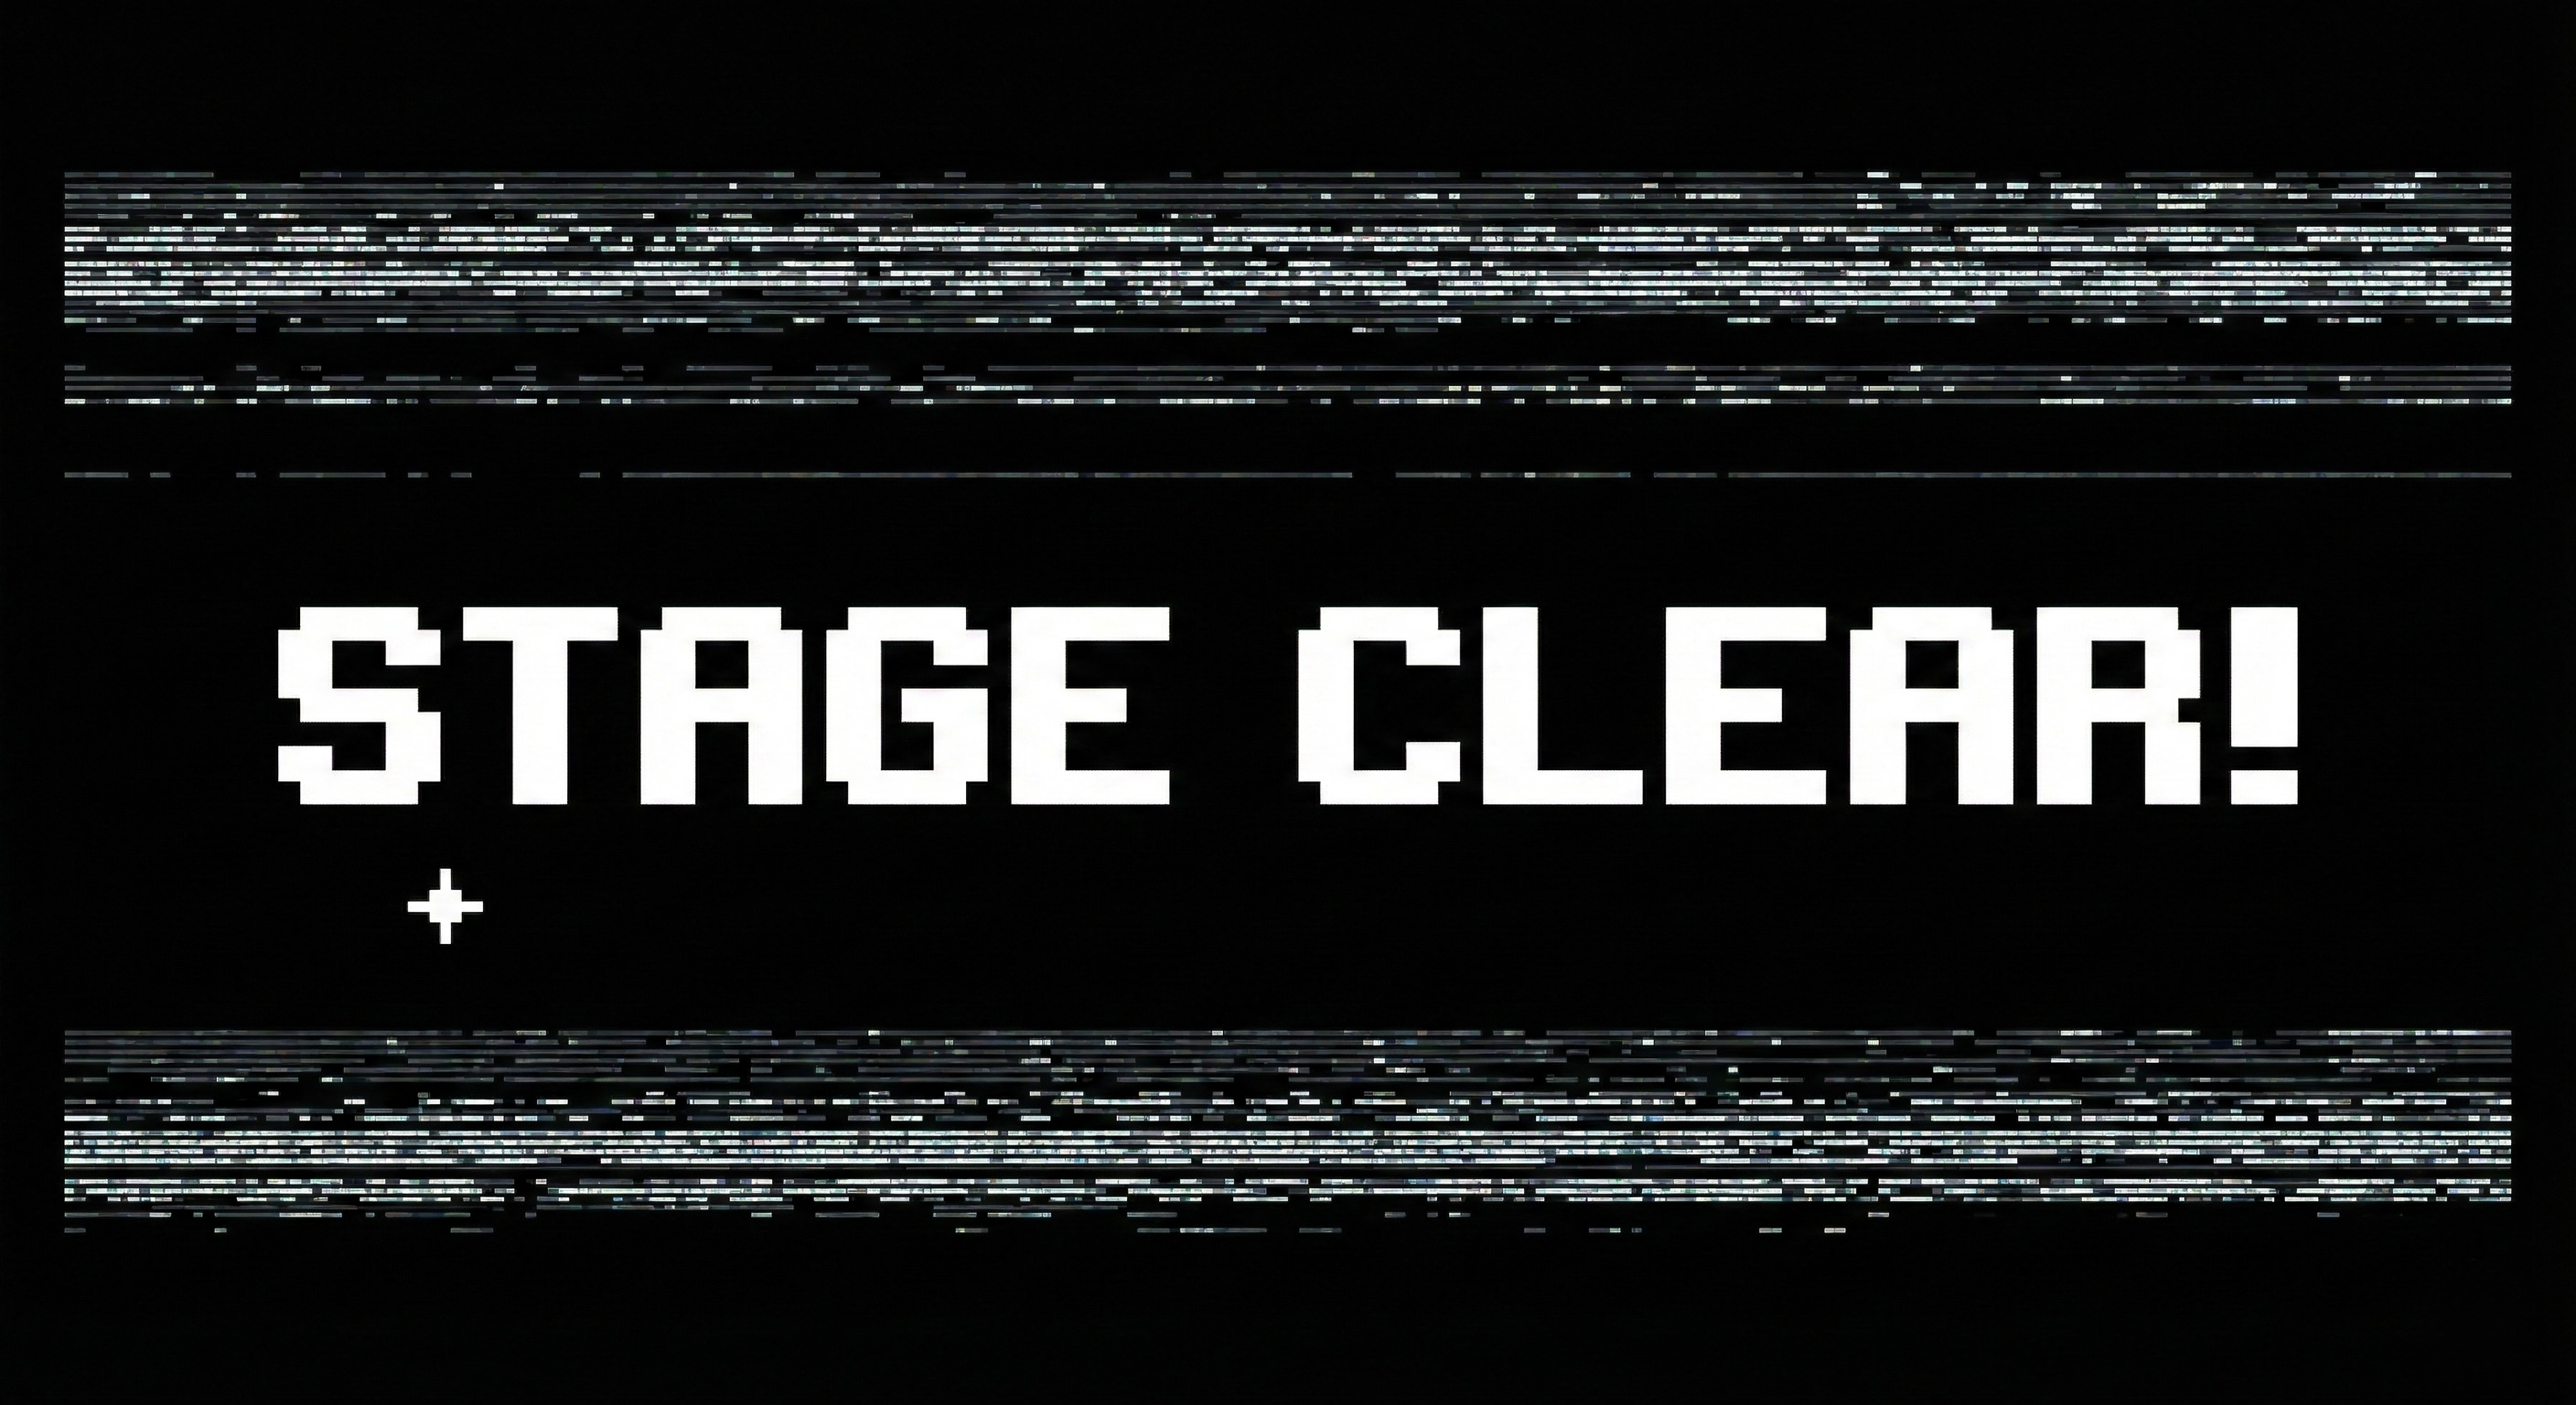
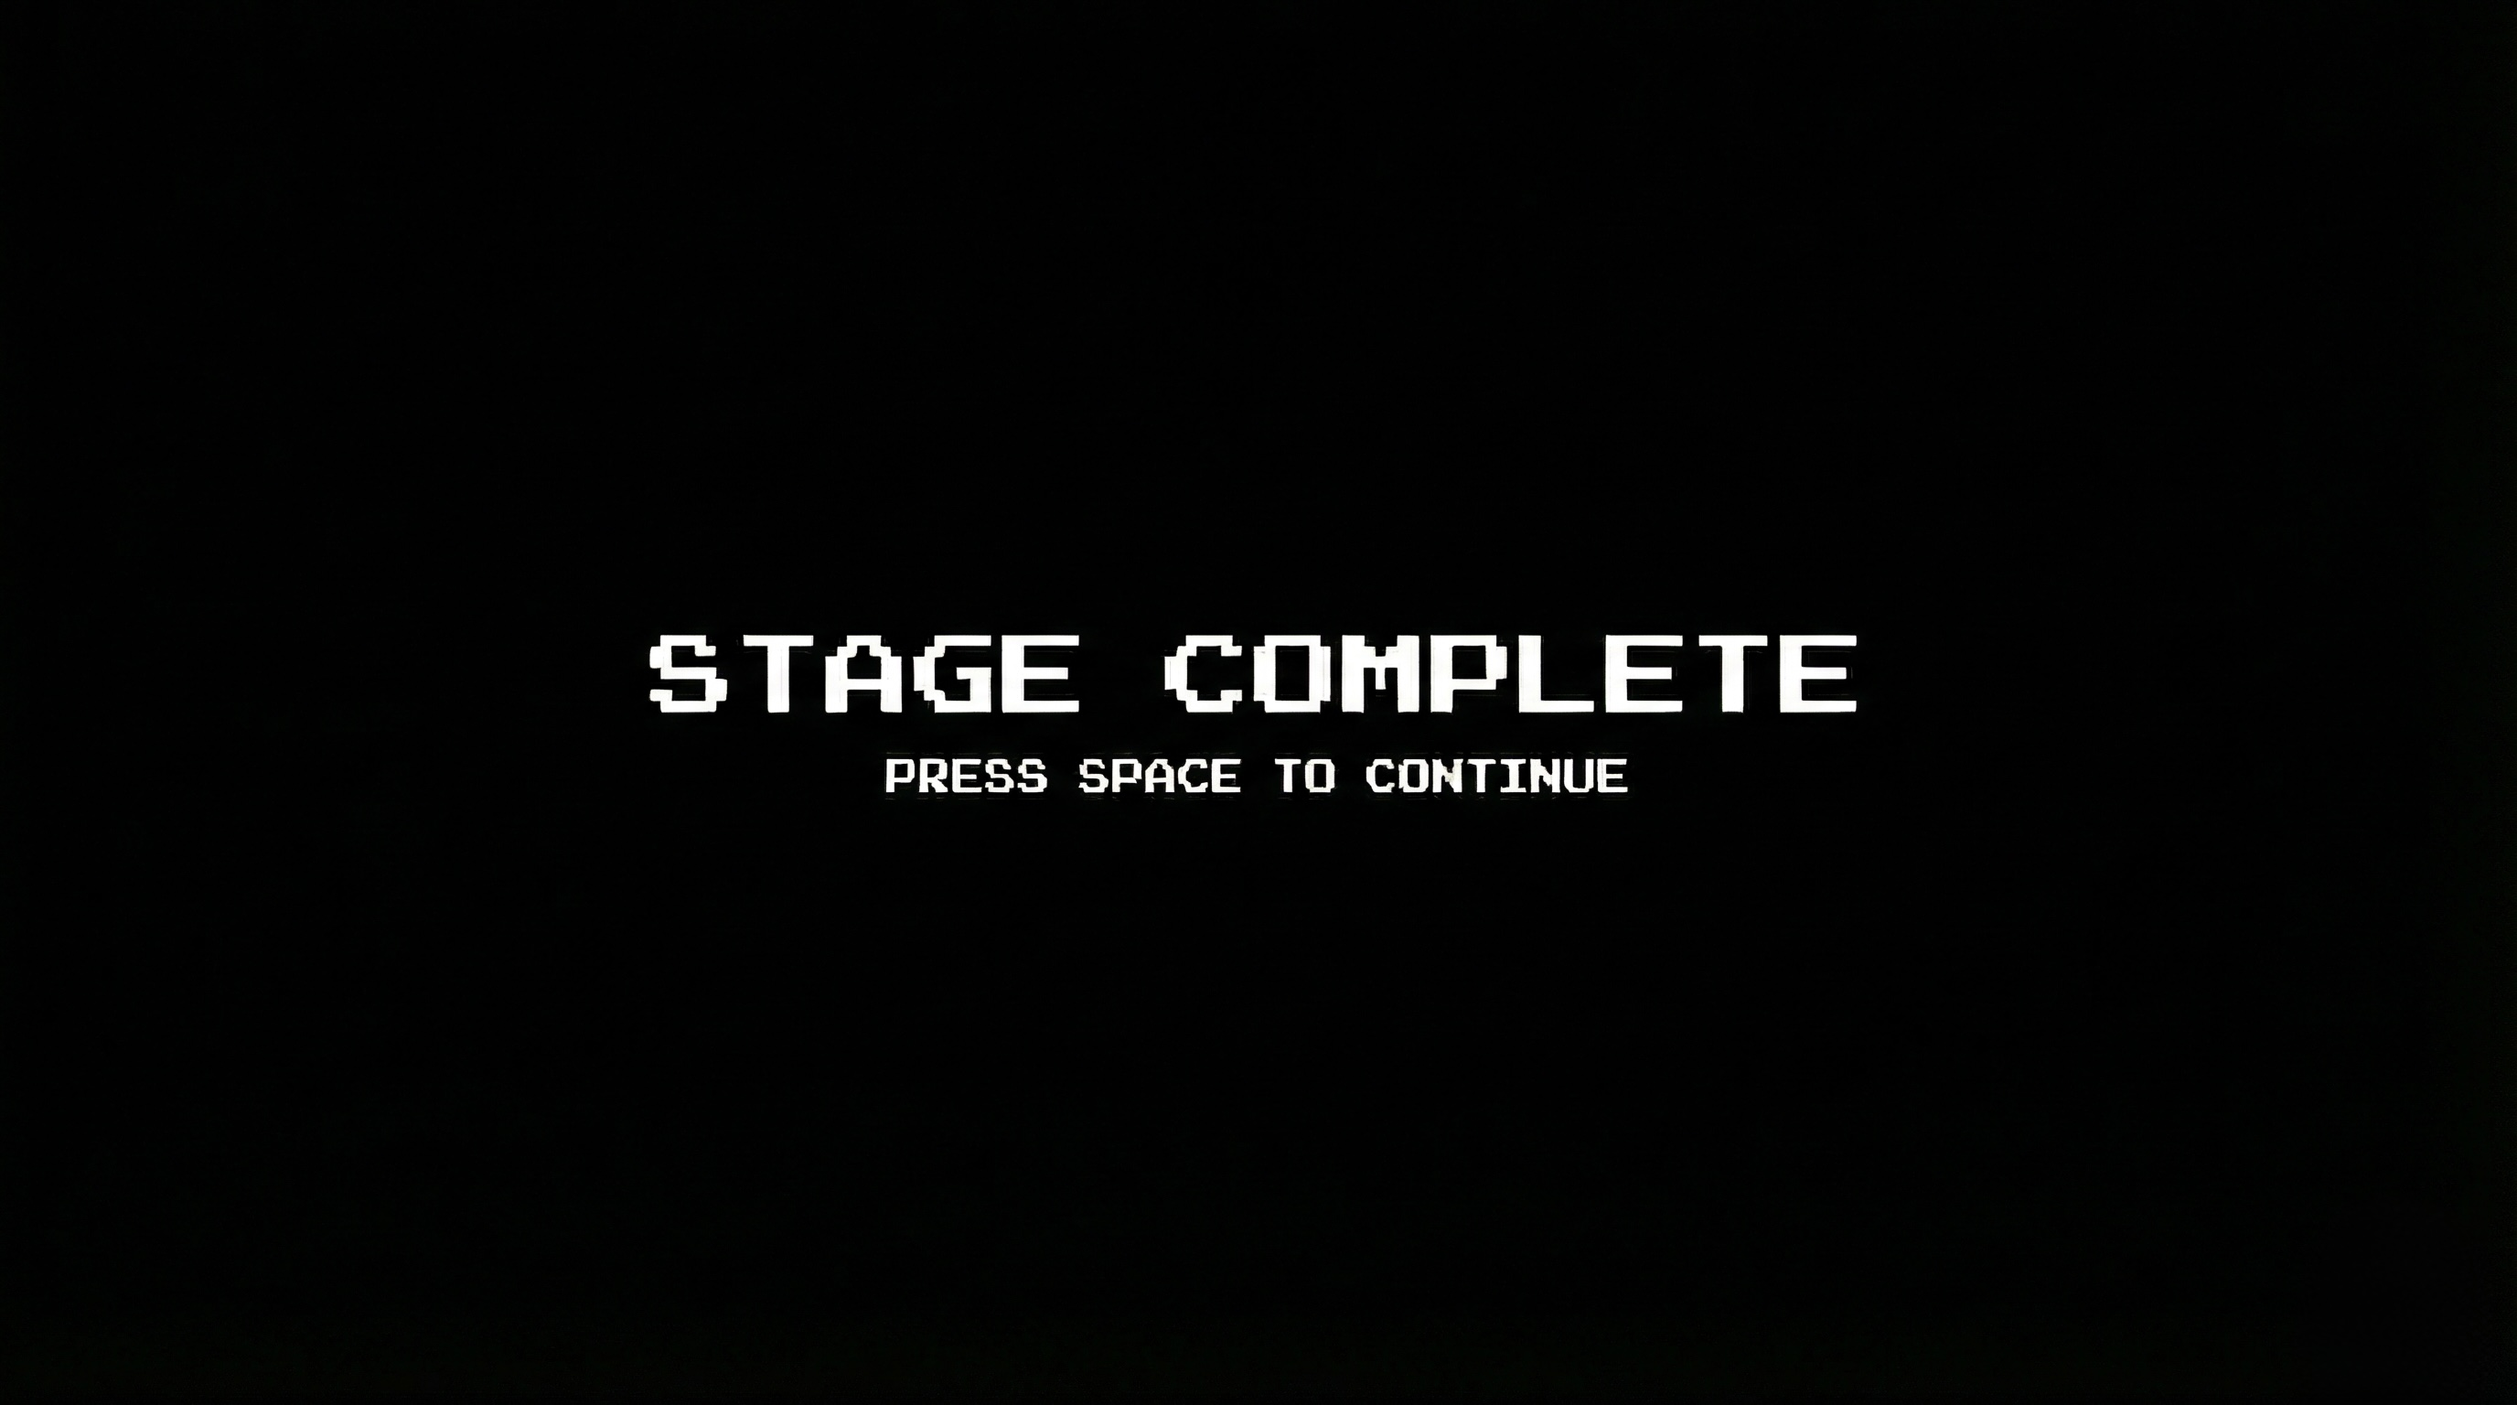
maybe done, just some animations

diff --git a/mandatory/Rays/ft_animation.c b/mandatory/Rays/ft_animation.c
@@ -6,7 +6,7 @@
 /*   By: akzaza <akzaza@student.42.fr>              +#+  +:+       +#+        */
 /*                                                +#+#+#+#+#+   +#+           */
 /*   Created: 2025/12/04 17:36:55 by noctis            #+#    #+#             */
-/*   Updated: 2025/12/12 02:27:38 by akzaza           ###   ########.fr       */
+/*   Updated: 2025/12/14 19:52:02 by akzaza           ###   ########.fr       */
 /*                                                                            */
 /* ************************************************************************** */
 
@@ -22,13 +22,14 @@ void	start_animation(t_game *game, char *folder, int frames, int delay, int stag
 	game->stage_anim.is_active = 1;
 	game->stage_anim.current_img = NULL;
 	game->stage_anim.stage = stage;
+	display_frame(game);
 }
 
 void	ft_start_animation(t_game *game, t_data *data)
 {
 	(void)data;
-	// start_animation(game,
-	// 	"mandatory/animation/complete_animation/complete_animation", 8, 15);
+	start_animation(game,
+		"mandatory/animation/start_animation/start_animation", 8, 30, 1);
 }
 
 void	ft_switch_animation(t_game *game, t_data *data)
@@ -49,5 +50,5 @@ void	ft_end_animation(t_game *game, t_data *data)
 {
 	(void)data;
 	start_animation(game,
-		"mandatory/animation/complete_animation/complete_animation", 6, 30, 3);
+		"mandatory/animation/complete_animation/complete_animation", 8, 30, 3);
 }

diff --git a/mandatory/Rays/ft_animation_utils.c b/mandatory/Rays/ft_animation_utils.c
@@ -6,13 +6,13 @@
 /*   By: akzaza <akzaza@student.42.fr>              +#+  +:+       +#+        */
 /*                                                +#+#+#+#+#+   +#+           */
 /*   Created: 2025/12/12 02:27:17 by akzaza            #+#    #+#             */
-/*   Updated: 2025/12/12 02:27:21 by akzaza           ###   ########.fr       */
+/*   Updated: 2025/12/14 19:52:42 by akzaza           ###   ########.fr       */
 /*                                                                            */
 /* ************************************************************************** */
 
 #include "../includes/cub3d.h"
 
-static void	display_frame(t_game *game)
+void	display_frame(t_game *game)
 {
 	char			*num;
 	char			*path;
@@ -41,13 +41,17 @@ static void	handle_space_key(t_game *game)
 	{
 		ft_strlcpy(game->stage_anim.folder, 
 			"mandatory/animation/Loading_animation/loading_screen", 256);
-		game->stage_anim.total_frames = 8;
-		game->stage_anim.frame_delay = 20;
+		game->stage_anim.total_frames = 16;
+		game->stage_anim.frame_delay = 25;
 		game->stage_anim.current_frame = 0;
 		game->stage_anim.stage = 2;
 	}
 	else if (game->stage_anim.stage == 3)
-		mlx_close_window(game->mlx.ptr);
+	{
+		mlx_delete_image(game->mlx.ptr, game->stage_anim.current_img);
+		game->stage_anim.stage = 1;
+	}
+	display_frame(game);
 }
 
 void	update_stage_animation(t_game *game)

diff --git a/mandatory/includes/cub3d.h b/mandatory/includes/cub3d.h
@@ -6,7 +6,7 @@
 /*   By: akzaza <akzaza@student.42.fr>              +#+  +:+       +#+        */
 /*                                                +#+#+#+#+#+   +#+           */
 /*   Created: 2025/10/10 18:34:32 by anktiri           #+#    #+#             */
-/*   Updated: 2025/12/12 01:08:08 by akzaza           ###   ########.fr       */
+/*   Updated: 2025/12/14 19:52:06 by akzaza           ###   ########.fr       */
 /*                                                                            */
 /* ************************************************************************** */
 
@@ -148,6 +148,8 @@ void			ft_switch_animation(t_game *game, t_data *data);
 void			ft_dead_animation(t_game *game, t_data *data);
 void			ft_end_animation(t_game *game, t_data *data);
 void			update_stage_animation(t_game *game);
+void			display_frame(t_game *game);
+void			start_animation(t_game *game, char *folder, int frames, int delay, int stage);
 
 // ------- remove later :
 

diff --git a/mandatory/Rays/ft_player2.c b/mandatory/Rays/ft_player2.c
@@ -3,10 +3,10 @@
 /*                                                        :::      ::::::::   */
 /*   ft_player2.c                                       :+:      :+:    :+:   */
 /*                                                    +:+ +:+         +:+     */
-/*   By: noctis <noctis@student.42.fr>              +#+  +:+       +#+        */
+/*   By: akzaza <akzaza@student.42.fr>              +#+  +:+       +#+        */
 /*                                                +#+#+#+#+#+   +#+           */
 /*   Created: 2025/12/04 18:52:15 by noctis            #+#    #+#             */
-/*   Updated: 2025/12/04 19:45:34 by noctis           ###   ########.fr       */
+/*   Updated: 2025/12/14 19:59:21 by akzaza           ###   ########.fr       */
 /*                                                                            */
 /* ************************************************************************** */
 

diff --git a/mandatory/Rays/ft_wrap_main_core.c b/mandatory/Rays/ft_wrap_main_core.c
@@ -6,7 +6,7 @@
 /*   By: akzaza <akzaza@student.42.fr>              +#+  +:+       +#+        */
 /*                                                +#+#+#+#+#+   +#+           */
 /*   Created: 2025/10/22 20:56:32 by akzaza            #+#    #+#             */
-/*   Updated: 2025/12/11 16:28:47 by akzaza           ###   ########.fr       */
+/*   Updated: 2025/12/14 19:56:08 by akzaza           ###   ########.fr       */
 /*                                                                            */
 /* ************************************************************************** */
 

diff --git a/mandatory/Rays/ft_wrap_start_game.c b/mandatory/Rays/ft_wrap_start_game.c
@@ -6,7 +6,7 @@
 /*   By: akzaza <akzaza@student.42.fr>              +#+  +:+       +#+        */
 /*                                                +#+#+#+#+#+   +#+           */
 /*   Created: 2025/11/29 20:52:53 by noctis            #+#    #+#             */
-/*   Updated: 2025/12/12 01:24:18 by akzaza           ###   ########.fr       */
+/*   Updated: 2025/12/14 19:44:30 by akzaza           ###   ########.fr       */
 /*                                                                            */
 /* ************************************************************************** */
 

diff --git a/mandatory/includes/Data.h b/mandatory/includes/Data.h
@@ -6,7 +6,7 @@
 /*   By: akzaza <akzaza@student.42.fr>              +#+  +:+       +#+        */
 /*                                                +#+#+#+#+#+   +#+           */
 /*   Created: 2025/10/24 10:45:27 by noctis            #+#    #+#             */
-/*   Updated: 2025/12/12 01:08:08 by akzaza           ###   ########.fr       */
+/*   Updated: 2025/12/14 19:59:13 by akzaza           ###   ########.fr       */
 /*                                                                            */
 /* ************************************************************************** */
 
